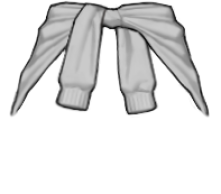
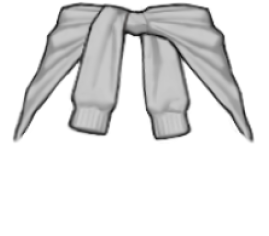
chore: 修改图片大小

diff --git a/src/components/衣服和装饰/衣服/系腰外套.js b/src/components/衣服和装饰/衣服/系腰外套.js
@@ -30,7 +30,7 @@ const assets2 = [
             Name: "系腰外套大",
             Random: false,
             Top: 400,
-            Left: 140,
+            Left: 115,
             DynamicGroupName: "ClothOuter",
             ParentGroup: {},
             PoseMapping: {},
